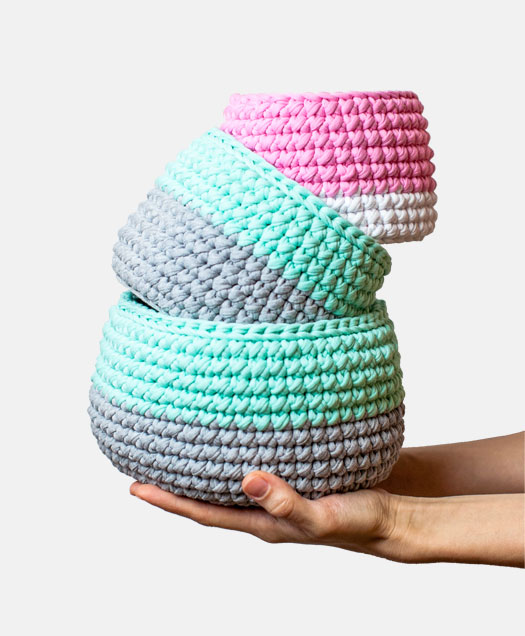
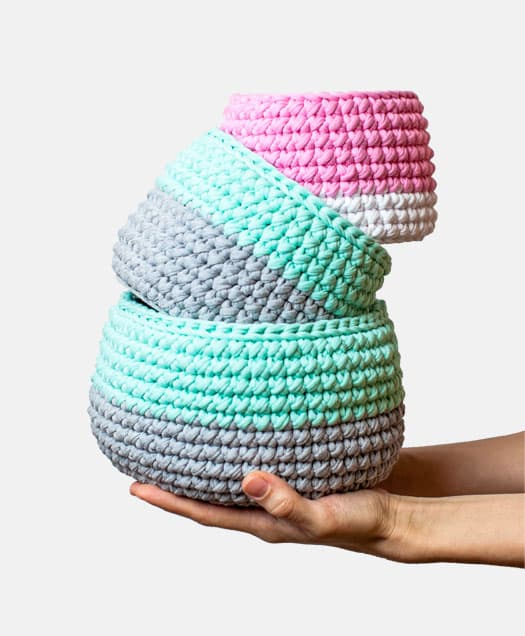
added webp pictures and optimized sprites

diff --git a/source/catalog.html b/source/catalog.html
@@ -73,6 +73,15 @@
       <ul class="products list">
         <li class="products__item product">
           <picture>
+            <source type="image/webp" media="(min-width: 1150px)"
+                    srcset="./img/photo-hare-desktop@1x.webp 1x,
+                            ./img/photo-hare-desktop@2x.webp 2x">
+            <source type="image/webp" media="(min-width: 768px)"
+                    srcset="./img/photo-hare-tablet@1x.webp 1x,
+                            ./img/photo-hare-tablet@2x.webp 2x">
+            <source type="image/webp"
+                    srcset="./img/photo-hare-mobile@1x.webp 1x,
+                            ./img/photo-hare-mobile@2x.webp 2x">
             <source media="(min-width: 1150px)"
                     srcset="./img/photo-hare-desktop@1x.jpg 1x,
                             ./img/photo-hare-desktop@2x.jpg 2x">
@@ -97,6 +106,15 @@
         </li>
         <li class="products__item product">
           <picture>
+            <source type="image/webp" media="(min-width: 1150px)"
+                    srcset="./img/photo-bowl-desktop@1x.webp 1x,
+                            ./img/photo-bowl-desktop@2x.webp 2x">
+            <source type="image/webp" media="(min-width: 768px)"
+                    srcset="./img/photo-bowl-tablet@1x.webp 1x,
+                            ./img/photo-bowl-tablet@2x.webp 2x">
+            <source type="image/webp"
+                    srcset="./img/photo-bowl-mobile@1x.webp 1x,
+                            ./img/photo-bowl-mobile@2x.webp 2x">
             <source media="(min-width: 1150px)"
                     srcset="./img/photo-bowl-desktop@1x.jpg 1x,
                             ./img/photo-bowl-desktop@2x.jpg 2x">
@@ -122,6 +140,15 @@
         </li>
         <li class="products__item product">
           <picture>
+            <source type="image/webp" media="(min-width: 1150px)"
+                    srcset="./img/photo-toys-desktop@1x.webp 1x,
+                            ./img/photo-toys-desktop@2x.webp 2x">
+            <source type="image/webp" media="(min-width: 768px)"
+                    srcset="./img/photo-toys-tablet@1x.webp 1x,
+                            ./img/photo-toys-tablet@2x.webp 2x">
+            <source type="image/webp"
+                    srcset="./img/photo-toys-mobile@1x.webp 1x,
+                            ./img/photo-toys-mobile@2x.webp 2x">
             <source media="(min-width: 1150px)"
                     srcset="./img/photo-toys-desktop@1x.jpg 1x,
                             ./img/photo-toys-desktop@2x.jpg 2x">

diff --git a/source/index.html b/source/index.html
@@ -106,6 +106,15 @@
             </tr>
           </table>
           <picture>
+              <source type="image/webp" media="(min-width: 1150px)"
+                      srcset="./img/triple-set-desktop@1x.webp 1x,
+                              ./img/triple-set-desktop@2x.webp 2x">
+              <source type="image/webp" media="(min-width: 768px)"
+                      srcset="./img/triple-set-tablet@1x.webp 1x,
+                              ./img/triple-set-tablet@2x.webp 2x">
+              <source type="image/webp"
+                      srcset="./img/triple-set-mobile@1x.webp 1x,
+                              ./img/triple-set-mobile@2x.webp 2x">
               <source media="(min-width: 1150px)"
                       srcset="./img/triple-set-desktop@1x.jpg 1x,
                               ./img/triple-set-desktop@2x.jpg 2x">
